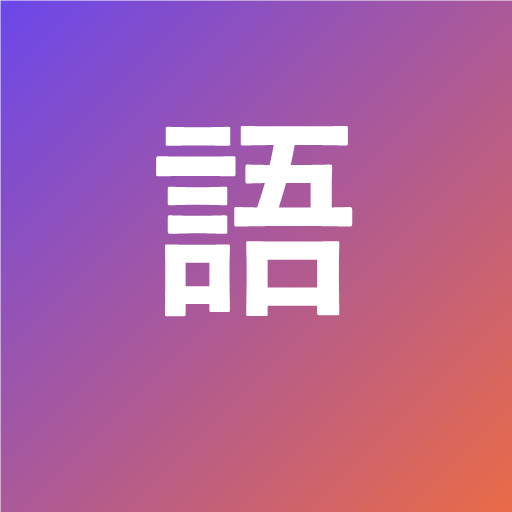
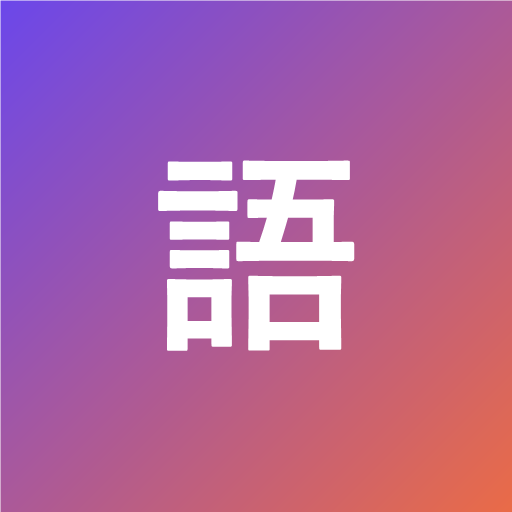
Centraliza verticalmente o kanji dos ícones

Changed region(s): [[0.2812, 0.2188, 0.7188, 0.6875]]

diff --git a/sw.js b/sw.js
@@ -1,4 +1,4 @@
-const CACHE_NAME = "jp-srs-cache-v7";
+const CACHE_NAME = "jp-srs-cache-v8";
 // Caches deste app (inclui os nomes antigos de quando verbos e adjetivos eram
 // apps separados), para limpar versões velhas sem tocar em caches de terceiros.
 const OWN_CACHE_PREFIXES = ["jp-srs-", "jpverbs-", "jpadj-"];
